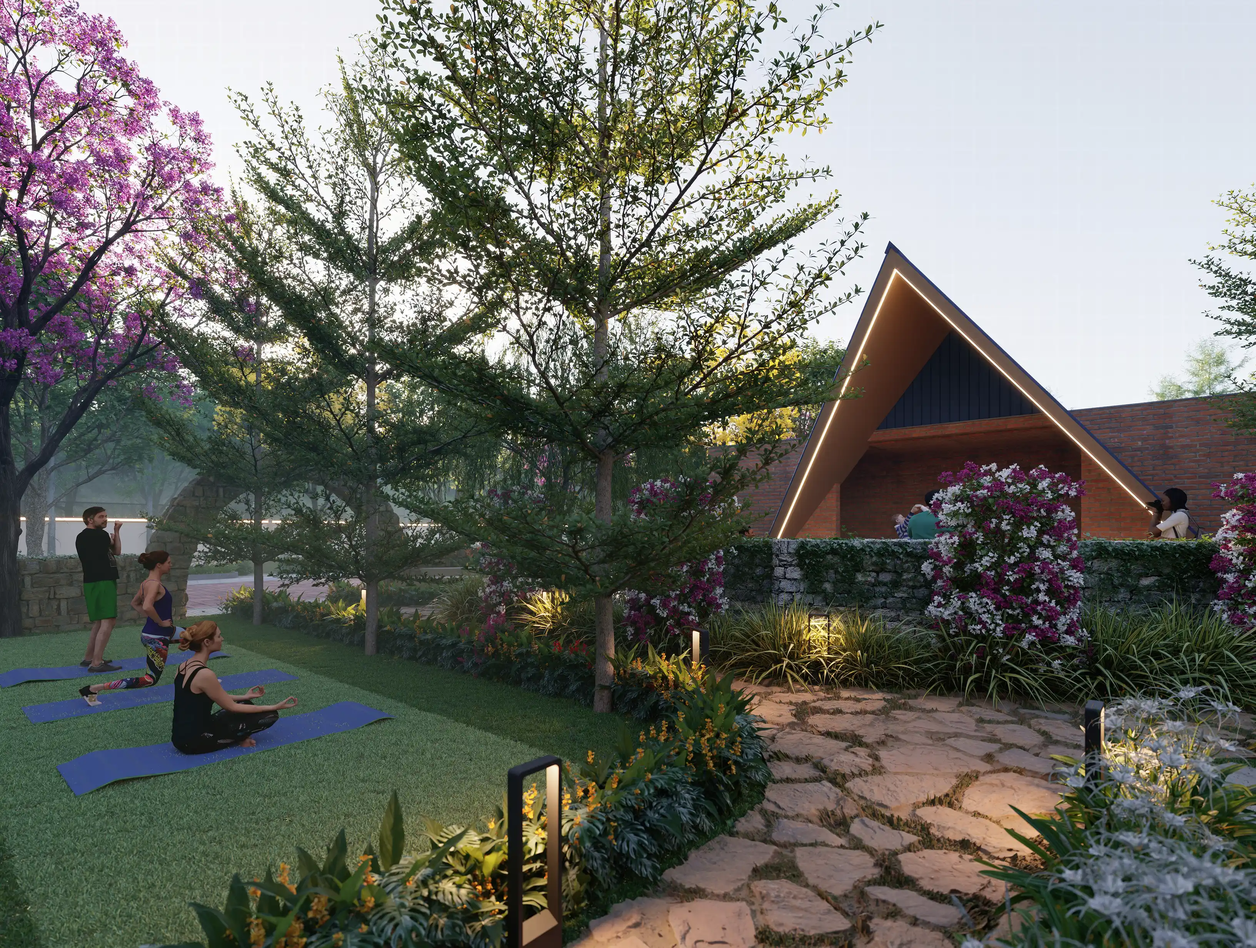
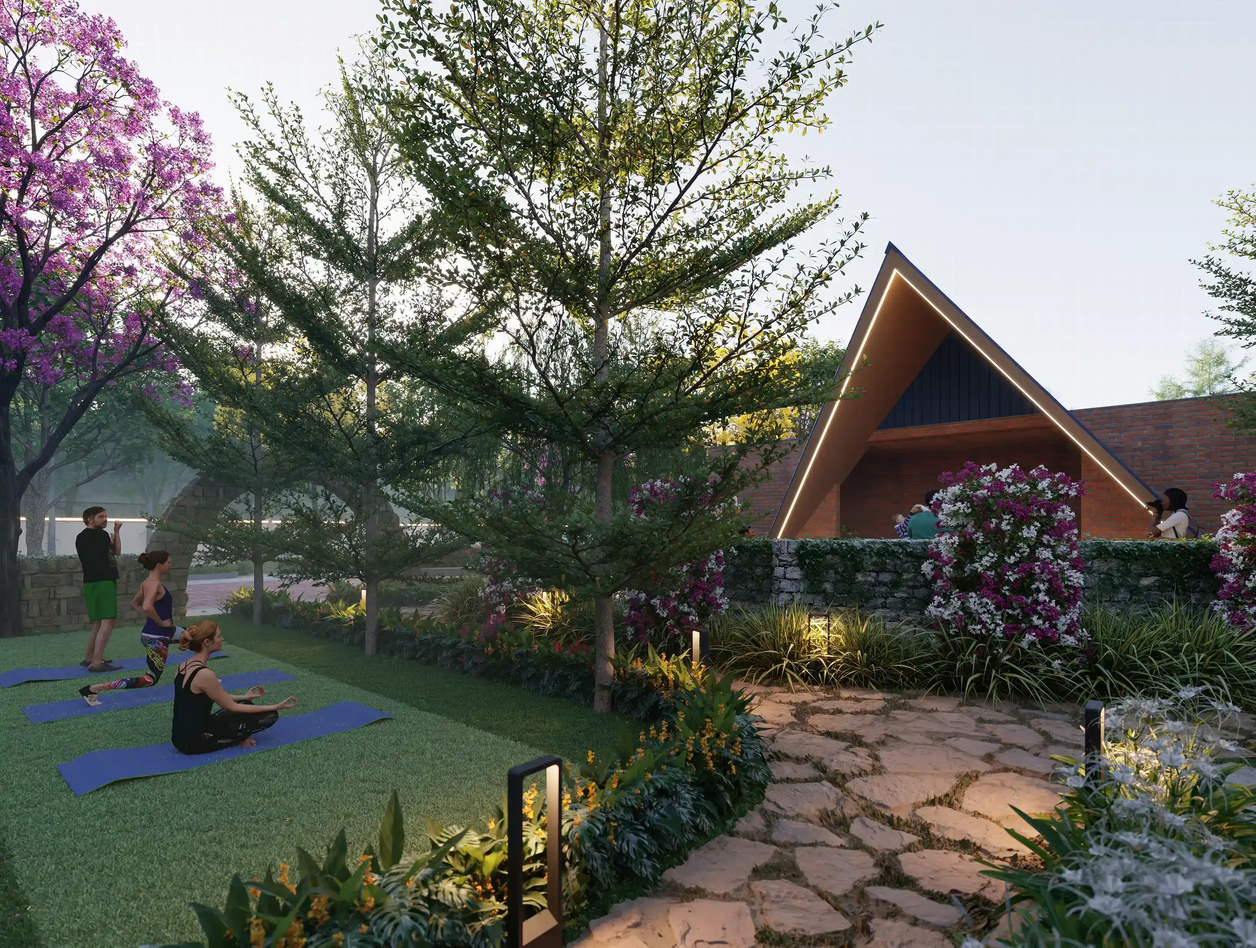
hotfix:image change in the club carosuel

Changed region(s): [[0.0312, 0.0926, 0.125, 0.1543], [0.0625, 0.0309, 0.0937, 0.0617]]

diff --git a/src/components/VaikuntamCityElite/landing-page/TheClub.tsx b/src/components/VaikuntamCityElite/landing-page/TheClub.tsx
@@ -4,6 +4,9 @@ import Image from "next/image";
 import { useEffect, useRef, useState } from "react";
 import { FaPause, FaPlay } from "react-icons/fa";
 import { motion, AnimatePresence, useInView } from "framer-motion";
+import clubImage1 from "../../../../public/images/vaikuntamCityEliteLandingPage/club-alt.webp";
+import clubImage2 from "../../../../public/images/vaikuntamCityEliteLandingPage/club-2-alt.webp";
+import clubImage3 from "../../../../public/images/vaikuntamCityEliteLandingPage/club-3-alt.webp";
 
 const CAROUSEL_CONFIG = {
   autoplayInterval: 5000,
@@ -27,24 +30,24 @@ export default function TheClub() {
       title: "The Epicentre of Leisure",
       description:
         " More than just a clubhouse, this is your gateway to a world of elevated experiences. From wellness spaces to intimate lounges and thoughtfully curated gatherings, every corner of The Club reflects a life well-lived. Membership is reserved for those who appreciate detail, privacy and the quiet confidence of belonging.",
-      image: "/images/vaikuntamCityEliteLandingPage/club.webp",
-      mobileImage: "/images/vaikuntamCityEliteLandingPage/club2.webp",
+      image: clubImage1,
+      mobileImage: clubImage1,
       id: 1,
     },
     {
       title: "20+ Amenities",
       description:
         "Step into a community where over 20 curated amenities create space for every passion and pace of life. From Mangalore’s first exclusive Pickleball Court to a fully equipped gym and swimming pool, wellness and recreation are always close to home.",
-      image: "/images/vaikuntamCityEliteLandingPage/club22.webp",
-      mobileImage: "/images/vaikuntamCityEliteLandingPage/club22.webp",
+      image: clubImage2,
+      mobileImage: clubImage2,
       id: 2,
     },
     {
       title: "Generations in Bloom",
       description:
         "In today’s fast-paced world, finding time for family isn’t always easy. At The Club, moments slow down so you can truly connect with the ones who matter. Every corner is designed for all generations to come together and make the most of their quality time. ",
-      image: "/images/vaikuntamCityEliteLandingPage/club3.webp",
-      mobileImage: "/images/vaikuntamCityEliteLandingPage/club33.webp",
+      image: clubImage3,
+      mobileImage: clubImage3,
       id: 3,
     },
   ];
@@ -93,46 +96,34 @@ export default function TheClub() {
       // Do not reset progress so resume can continue smoothly
       return;
     }
-  }, [isPlay, CAROUSEL_DATA.length ]);
+  }, [isPlay, CAROUSEL_DATA.length]);
 
   return (
     <section
-      className="bg-[#F3EAE1] relative xl:h-[80rem] md:h-[50rem] lg:h-[60rem] lg2:h-[70rem] 2xl:h-[150vh] overflow-hidden"
+      className="bg-[#F3EAE1] relative xl:h-[80rem] md:h-[50rem] lg:h-[60rem] lg2:h-[70rem] 2xl:h-[100rem] overflow-hidden"
       ref={ref}
     >
-      <div className="container h-full mx-auto lg:border-l lg:border-r border-[#1C1213] pt-20 lg:pt-24 xl:pt-40 lg:pb-60 relative z-50">
+      <div className="container h-full mx-auto lg:border-l lg:border-r border-[#1C1213] pt-20 lg:pt-24 xl:pt-40 relative z-50">
         <div className="space-y-3 lg:space-y-4 basis-[38%] px-12 max-w-[38rem]">
           <AnimatePresence mode="wait">
-            <motion.p
-              className="text-[#DAA37A] lg:text-lg uppercase font-FreightNeoProNormal"
-              key={CAROUSEL_DATA[currentIndex].id + "-title"}
+            <motion.div
+              key={CAROUSEL_DATA[currentIndex].id}
               initial={{ opacity: 0, y: 10 }}
               animate={{ opacity: 1, y: 0 }}
               exit={{ opacity: 0, y: -10 }}
-              transition={{ delay: 0.2, duration: 0.4 }}
+              transition={{ duration: 0.4 }}
+              className="space-y-3 lg:space-y-4 basis-[38%] max-w-[38rem]"
             >
-              the club
-            </motion.p>
-            <motion.h2
-              className="text-[32px] lg:text-[42px] lg2:text-5xl leading-[100%] text-[#37121A] font-FreightNeoProNormal"
-              key={CAROUSEL_DATA[currentIndex].id + "-heading"}
-              initial={{ opacity: 0, y: 10 }}
-              animate={{ opacity: 1, y: 0 }}
-              exit={{ opacity: 0, y: -10 }}
-              transition={{ delay: 0.3, duration: 0.4 }}
-            >
-              {CAROUSEL_DATA[currentIndex].title}
-            </motion.h2>
-            <motion.p
-              className="text-[#37121A]/60 font-FreightNeoProNormal text-lg leading-[24px] text-justify text-pretty"
-              key={CAROUSEL_DATA[currentIndex].id + "-description"}
-              initial={{ opacity: 0, y: 10 }}
-              animate={{ opacity: 1, y: 0 }}
-              exit={{ opacity: 0, y: -10 }}
-              transition={{ delay: 0.2, duration: 0.4 }}
-            >
-              {CAROUSEL_DATA[currentIndex].description}
-            </motion.p>
+              <p className="text-[#DAA37A] lg:text-lg uppercase font-FreightNeoProNormal">
+                the club
+              </p>
+              <h2 className="text-[32px] lg:text-[42px] lg2:text-5xl leading-[100%] text-[#37121A] font-FreightNeoProNormal">
+                {CAROUSEL_DATA[currentIndex].title}
+              </h2>
+              <p className="text-[#37121A]/60 font-FreightNeoProNormal text-lg leading-[24px] text-justify text-pretty">
+                {CAROUSEL_DATA[currentIndex].description}
+              </p>
+            </motion.div>
           </AnimatePresence>
         </div>
         <div className="md:hidden overflow-hidden">
@@ -143,14 +134,13 @@ export default function TheClub() {
               animate={{ opacity: 1, scale: 1 }}
               exit={{ opacity: 0, scale: 0.95 }}
               transition={{ type: "spring", stiffness: 100, damping: 20 }}
-              className=""
             >
               <Image
                 src={CAROUSEL_DATA[currentIndex].mobileImage}
                 alt="The Club"
                 width={1728}
                 height={1788}
-                className="w-full h-full object-cover object-center md:hidden"
+                className={`w-full h-[20rem] object-cover ${CAROUSEL_DATA[currentIndex].id === 3 ? "object-right" : "object-center"}  md:hidden`}
               />
             </motion.div>
           </AnimatePresence>
@@ -242,10 +232,12 @@ export default function TheClub() {
           >
             <Image
               src={CAROUSEL_DATA[currentIndex].image}
+              placeholder="blur"
               alt="The Club"
               width={1728}
               height={1788}
-              className="w-full h-full object-cover md:block hidden"
+              unoptimized
+              className="w-full xl:h-[80rem] md:h-[40rem] lg:h-[50rem] lg2:h-[65rem] 2xl:h-[95rem] object-cover md:block hidden"
             />
           </motion.div>
         </AnimatePresence>

diff --git a/src/components/VaikuntamCityElite/landing-page/Features2.tsx b/src/components/VaikuntamCityElite/landing-page/Features2.tsx
@@ -89,6 +89,7 @@ export default function Features2({
                 <Image
                   src={accordianData[activeIndex ?? 0].image}
                   fill
+                  placeholder="blur"
                   style={{ objectFit: "cover" }}
                   alt="Accordion Image"
                 />

diff --git a/src/components/VaikuntamCityElite/landing-page/Features.tsx b/src/components/VaikuntamCityElite/landing-page/Features.tsx
@@ -89,6 +89,7 @@ export default function Features({
                 <Image
                   src={accordianData[activeIndex ?? 0].image}
                   fill
+                  placeholder="blur"
                   style={{ objectFit: "cover" }}
                   alt="Accordion Image"
                 />
